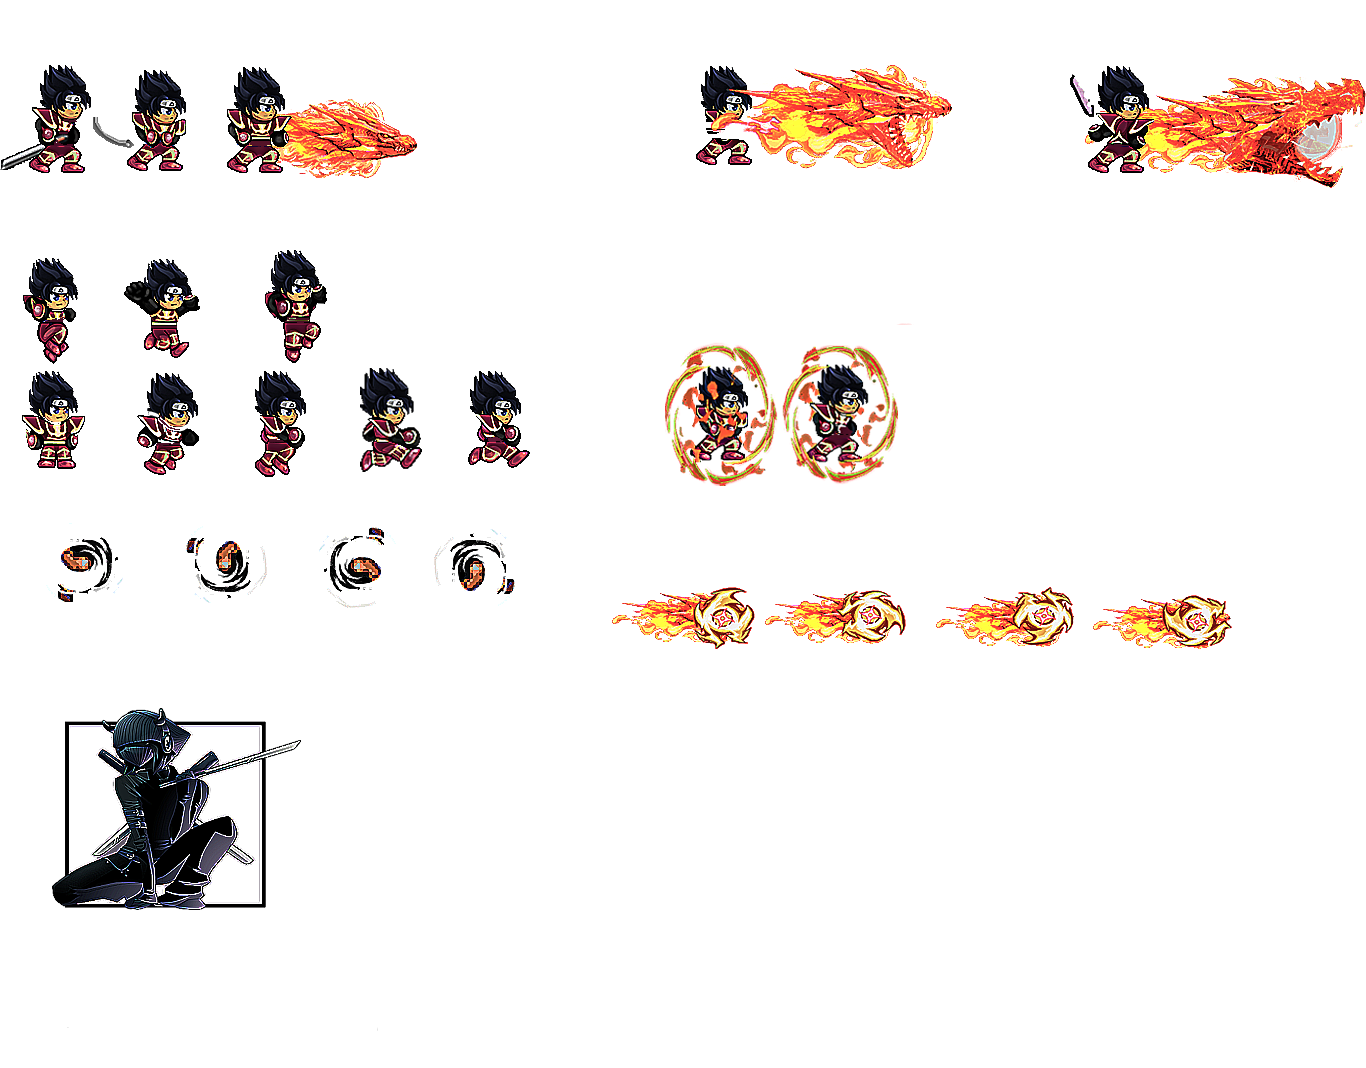
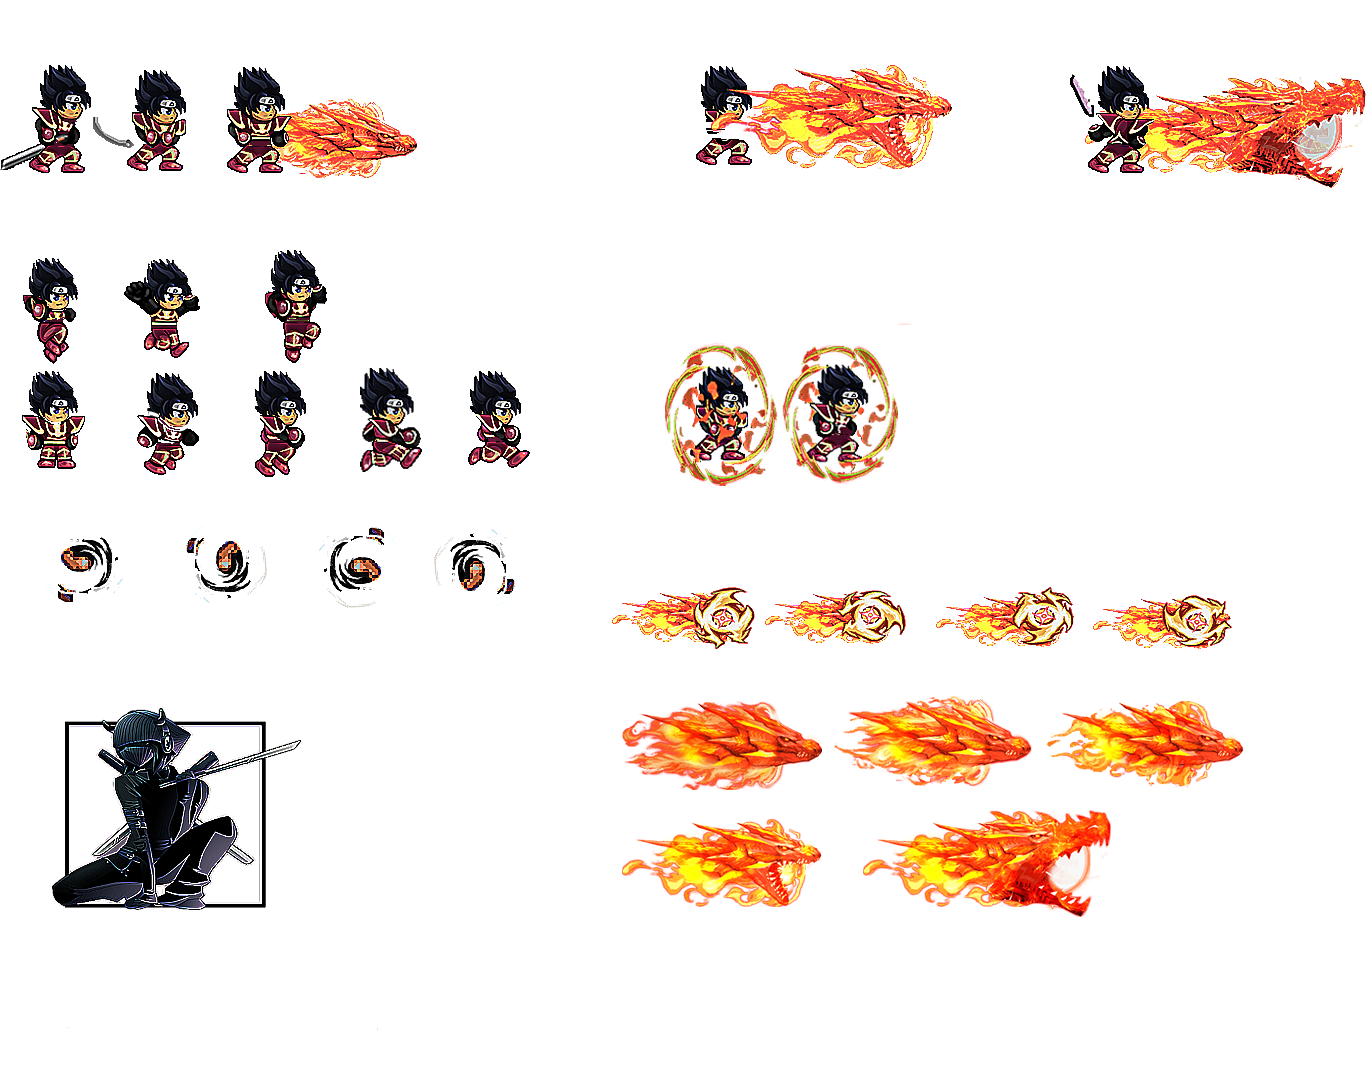
bắn ga con gồng xiu to khổng nồ

Changed region(s): [[0.4612, 0.6489, 0.9224, 0.8652]]

diff --git a/src/Object/Shinobi.java b/src/Object/Shinobi.java
@@ -21,7 +21,7 @@ public class Shinobi extends Character{
     private Animation flyForwardAnim, flyBackAnim, 
     flyAttackForwardAnim, flyAttackBackAnim;
     private Animation landingForwardAnim, landingBackAnim;
-    
+    private Animation idleShooting2ForwardAnim,idleShooting2BackAnim,runShooting2ForwardAnim,runShooting2BackAnim;
     private Animation climWallForward, climWallBack;
     
     private long lastShootingTime;
@@ -73,6 +73,10 @@ public class Shinobi extends Character{
         idleShootingForwardAnim = Loader_CacheData.getInstance().getAnimation("idleshoot");
         idleShootingBackAnim = Loader_CacheData.getInstance().getAnimation("idleshoot");
         idleShootingBackAnim.flipAllImage();
+
+        // idleShooting2ForwardAnim = Loader_CacheData.getInstance().getAnimation("dragonshoot");
+        // idleShooting2BackAnim = Loader_CacheData.getInstance().getAnimation("dragonshoot");
+        // idleShooting2BackAnim.flipAllImage();
         
         runShootingForwarAnim = Loader_CacheData.getInstance().getAnimation("runshoot");
         runShootingBackAnim = Loader_CacheData.getInstance().getAnimation("runshoot");
@@ -197,47 +201,42 @@ public class Shinobi extends Character{
             isShooting = true;
             
         }
-
-
-
-
-
-        // if(!isAttaking && !getIsDicking()){
-            
-        //     shooting1.play();
-            
-        //     Bokken bokken = new Bokken(getPosX(), getPosY(), getGameWorld());
-        //     if(getDirection() == LEFT_DIR) {
-        //         bokken.setSpeedX(-100);
-        //         bokken.setPosX(bokken.getPosX() - 15);
-        //         if(getSpeedX() != 0 && getSpeedY() == 0){
-        //             bokken.setPosX(bokken.getPosX() - 2);
-        //             bokken.setPosY(bokken.getPosY() - 1);
-        //         }
-        //     }else {
-        //         bokken.setSpeedX(100);
-        //         bokken.setPosX(bokken.getPosX() + 15);
-        //         if(getSpeedX() != 0 && getSpeedY() == 0){
-        //             bokken.setPosX(bokken.getPosX() + 2);
-        //             bokken.setPosY(bokken.getPosY() - 1);
-        //         }
-        //     }
-        //     if(getIsJumping())
-        //     bokken.setPosY(bokken.getPosY() - 20);
-            
-        //     bokken.setTeamType(getTeamType());
-        //     getGameWorld().bulletManager.addObject(bokken);
-            
-        //     lastAttakingTime = System.nanoTime();
-        //     isAttaking = true;
-            
-        // }
     }
-    // @Override
-    // public void hurtingCallback(){
-    //     System.out.println("Call back hurting");
-    //     hurtingSound.play();
-    // }
+        public void attack2() 
+        {
+        // TODO Auto-generated method stub
+        if(!isShooting && !getIsDicking()){
+            
+            shooting1.play();
+            
+            Bullet bullet = new DragoShoot(getPosX(), getPosY(), getGameWorld());
+            if(getDirection() == LEFT_DIR) {
+                bullet.setSpeedX(-10);
+                bullet.setPosX(bullet.getPosX() - 40);
+                if(getSpeedX() != 0 && getSpeedY() == 0){
+                    bullet.setPosX(bullet.getPosX() - 10);
+                    bullet.setPosY(bullet.getPosY() - 5);
+                }
+            }else {
+                bullet.setSpeedX(10);
+                bullet.setPosX(bullet.getPosX() + 40);
+                if(getSpeedX() != 0 && getSpeedY() == 0){
+                    bullet.setPosX(bullet.getPosX() + 10);
+                    bullet.setPosY(bullet.getPosY() - 5);
+                }
+            }
+            if(getIsJumping())
+                bullet.setPosY(bullet.getPosY() - 20);
+            
+            bullet.setTeamType(getTeamType());
+            getGameWorld().bulletManager.addObject(bullet);
+            
+            lastShootingTime = System.nanoTime();
+            isShooting = true;
+            
+        }
+    }
+
 
     @Override
     public Rectangle getBoundForCollisionWithEnemy() {

diff --git a/src/Object/DragoShoot.java b/src/Object/DragoShoot.java
@@ -1,0 +1,72 @@
+package Object;
+
+import java.awt.Graphics2D;
+import java.awt.Rectangle;
+
+import Anima.Animation;
+import Anima.Loader_CacheData;
+import State.WorldState;
+
+public class DragoShoot extends Bullet
+{
+
+    public DragoShoot(float x, float y,WorldState gameWorld) {
+        super(x, y, 60, 30, 1.0f, 50, gameWorld);
+        //TODO Auto-generated constructor stub
+        forwardBulletAnim = Loader_CacheData.getInstance().getAnimation("dragonshoot");
+        backBulletAnim = Loader_CacheData.getInstance().getAnimation("dragonshoot");
+        backBulletAnim.flipAllImage();
+    }
+
+    private Animation forwardBulletAnim, backBulletAnim;
+
+    @Override
+    public void draw(Graphics2D g2d) {
+        // TODO Auto-generated method stub
+        if(getSpeedX() > 0){
+            if(!forwardBulletAnim.isIgnoreFrame(0) && forwardBulletAnim.getCurrentFrame() == 3){
+                forwardBulletAnim.setIgnoreFrame(0);
+                forwardBulletAnim.setIgnoreFrame(1);
+                forwardBulletAnim.setIgnoreFrame(2);
+            }
+                
+            forwardBulletAnim.Update(System.nanoTime());
+            forwardBulletAnim.draw((int) (getPosX() - getGameWorld().camera.getPosX()), (int) getPosY() - (int) getGameWorld().camera.getPosY(), g2d);
+        }else{
+            if(!backBulletAnim.isIgnoreFrame(0) && backBulletAnim.getCurrentFrame() == 3){
+                backBulletAnim.setIgnoreFrame(0);
+                backBulletAnim.setIgnoreFrame(1);
+                backBulletAnim.setIgnoreFrame(2);
+            }
+            backBulletAnim.Update(System.nanoTime());
+            backBulletAnim.draw((int) (getPosX() - getGameWorld().camera.getPosX()), (int) getPosY() - (int) getGameWorld().camera.getPosY(), g2d);
+        }
+    }
+
+    @Override
+    public void attack() {
+        // TODO Auto-generated method stub
+        
+    }
+
+    @Override
+    public Rectangle getBoundForCollisionWithEnemy() {
+        // TODO Auto-generated method stub
+        return getBoundForCollisionWithMap();
+    }
+
+    @Override
+    public void Update() {
+        // TODO Auto-generated method stub
+        super.Update();
+        if(forwardBulletAnim.isIgnoreFrame(0) || backBulletAnim.isIgnoreFrame(0))
+            setPosX(getPosX() + getSpeedX());
+        PartiObject object = getGameWorld().particularObjectManager.getCollisionWidthEnemyObject(this);
+        if(object!=null && object.getState() == ALIVE){
+            setBlood(0);
+            object.setBlood(object.getBlood() - getDamage());
+            object.setState(BEHURT);
+            // System.out.println("Bullet set behurt for enemy");
+        }
+    }
+}

diff --git a/src/State/WorldState.java b/src/State/WorldState.java
@@ -378,15 +378,14 @@ public class WorldState extends State
         switch(code){
             
             case KeyEvent.VK_DOWN:
-            shinobi.dick();
                 break;
                 
-            case KeyEvent.VK_RIGHT:
+            case KeyEvent.VK_D:
             shinobi.setDirection(shinobi.RIGHT_DIR);
             shinobi.run();
                 break;
                 
-            case KeyEvent.VK_LEFT:
+            case KeyEvent.VK_A :
             shinobi.setDirection(shinobi.LEFT_DIR);
             shinobi.run();
                 break;
@@ -419,9 +418,11 @@ public class WorldState extends State
                 shinobi.jump();
                 break;
                 
-            case KeyEvent.VK_A:
+            case KeyEvent.VK_M:
                 shinobi.attack();
                 break;
+            case KeyEvent.VK_N :
+                shinobi.attack2();
                 
         }
     }
@@ -439,12 +440,12 @@ public class WorldState extends State
             shinobi.standUp();
                 break;
                 
-            case KeyEvent.VK_RIGHT:
+            case KeyEvent.VK_D:
                 if(shinobi.getSpeedX() > 0)
                 shinobi.stopRun();
                 break;
                 
-            case KeyEvent.VK_LEFT:
+            case KeyEvent.VK_A:
                 if(shinobi.getSpeedX() < 0)
                 shinobi.stopRun();
                 break;
@@ -461,7 +462,7 @@ public class WorldState extends State
                 
                 break;
                 
-            case KeyEvent.VK_A:
+            case KeyEvent.VK_M:
                 
                 break;
             case KeyEvent.VK_ESCAPE:

diff --git a/src/UI/FrameGame.java b/src/UI/FrameGame.java
@@ -17,7 +17,7 @@ public class FrameGame extends JFrame
 
     public FrameGame(){
 
-        super("Mega Man java game");
+        super("Shinobi_PQH_VTN_LXH");
         this.setDefaultCloseOperation(JFrame.EXIT_ON_CLOSE);
         Toolkit toolkit = this.getToolkit();
         Dimension solution = toolkit.getScreenSize();
